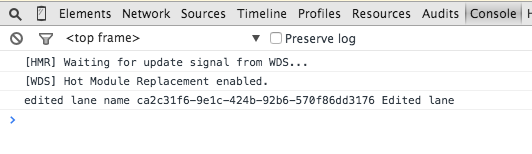
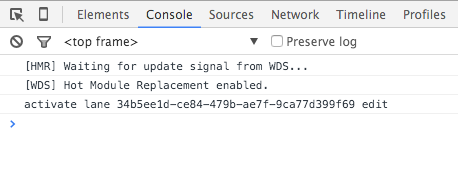
from notes to kanban - Quality pass
Closes #352.

diff --git a/manuscript/06_from_notes_to_kanban.md b/manuscript/06_from_notes_to_kanban.md
@@ -96,22 +96,22 @@ leanpub-end-delete
 leanpub-start-insert
         <button className="add-lane" onClick={this.addLane}>+</button>
 leanpub-end-insert
+leanpub-start-delete
         <AltContainer
-leanpub-start-delete
           stores={[NoteStore]}
-leanpub-end-delete
-leanpub-start-insert
-          stores={[LaneStore]}
-leanpub-end-insert
           inject={{
-leanpub-start-delete
             notes: () => NoteStore.getState().notes
-leanpub-end-delete
-leanpub-start-insert
-            lanes: () => LaneStore.getState().lanes || []
-leanpub-end-insert
           }}
         >
+leanpub-end-delete
+leanpub-start-insert
+        <AltContainer
+          stores={[LaneStore]}
+          inject={{
+            lanes: () => LaneStore.getState().lanes || []
+          }}
+        >
+leanpub-end-insert
 leanpub-start-delete
           <Notes onEdit={this.editNote} onDelete={this.deleteNote} />
 leanpub-end-delete
@@ -122,11 +122,6 @@ leanpub-end-insert
       </div>
     );
   }
-leanpub-start-insert
-  addLane() {
-    LaneActions.create({name: 'New lane'});
-  }
-leanpub-end-insert
 leanpub-start-delete
   addNote() {
     NoteActions.create({task: 'New task'});
@@ -138,6 +133,11 @@ leanpub-start-delete
     NoteActions.delete(id);
   }
 leanpub-end-delete
+leanpub-start-insert
+  addLane() {
+    LaneActions.create({name: 'New lane'});
+  }
+leanpub-end-insert
 }
 ```
 
@@ -210,7 +210,7 @@ export default class Lane extends React.Component {
 
 I am using [Object rest/spread syntax (stage 2)](https://github.com/sebmarkbage/ecmascript-rest-spread) (`const {a, b, ...props} = this.props`) in the example. This allows us to attach a `className` to `Lane` and we avoid polluting it with HTML attributes we don't need. The syntax expands Object key value pairs as props so we don't have to write each prop we want separately.
 
-If you run the application, you can see there's something wrong. If you add new `Notes` to a `Lane`, the `Note` appears to each `Lane`. Also if you modify a `Note`, the other `Lanes` update, too.
+If you run the application and try adding new notes, you can see there's something wrong. Every note you add is shared by all lanes. If a note is modified, other lanes update too.
 
 ![Duplicate notes](images/kanban_01.png)
 
@@ -245,7 +245,7 @@ import alt from '../libs/alt';
 export default alt.generateActions('create', 'attachToLane');
 ```
 
-The next step takes more code. There we need to find a lane matching to the given lane id and then attach note id to it. Given notes should be unique per lane, we can perform an extra check against that before attaching:
+In order to implement `attachToLane`, we need to find a lane matching to the given lane id and then attach note id to it. Furthermore, each note should belong only to one lane at a time. We can perform a rough check against that:
 
 **app/stores/LaneStore.js**
 
@@ -287,7 +287,11 @@ We also need to make sure `NoteActions.create` returns a note so the setup works
 ...
 
 class NoteStore {
-  ...
+  constructor() {
+    this.bindActions(NoteActions);
+
+    this.notes = [];
+  }
   create(note) {
     const notes = this.notes;
 
@@ -363,7 +367,7 @@ leanpub-end-insert
 export default alt.createStore(LaneStore, 'LaneStore');
 ```
 
-Just building an association between a lane and a note isn't enough. We are going to need some way to resolve the note references to data we can display through the user interface. For this purpose we need to implement a special getter that performs this particular step.
+Just building an association between a lane and a note isn't enough. We are going to need some way to resolve the note references to data we can display through the user interface. For this purpose, we need to implement a special getter so we get just the data we want per each lane.
 
 ### Implementing a Getter for `NoteStore`
 
@@ -495,7 +499,9 @@ There are three important changes:
 * `notes: () => NoteStore.getNotesByIds(notes)` - Our new getter is used to filter `notes`.
 * `addNote`, `deleteNote` - These operate now based on the new logic we specified. Note that we trigger `detachFromLane` before `delete` at `deleteNote`. Otherwise we may try to render non-existent notes. You can try swapping the order to see warnings.
 
-After these changes, we now have a system that can maintain relations between `Lanes` and `Notes`. The current structure allows us to keep singleton stores and a flat data structure. Dealing with references is a little awkward, but that's consistent with the Flux architecture.
+After these changes, we have a system that can maintain relations between `Lanes` and `Notes`. The current structure allows us to keep singleton stores and a flat data structure. Dealing with references is a little awkward, but that's consistent with the Flux architecture.
+
+If you try to add notes to a specific lane, they shouldn't be duplicated anymore. Also editing a note should behave as you might expect:
 
 ![Separate notes](images/kanban_02.png)
 
@@ -527,7 +533,7 @@ class LaneStore {
 }
 ```
 
-Fortunately, we can avoid `waitFor` in this case. You should use it carefully. It becomes necessary when you need to deal with asynchronously fetched data that depends on each other.
+Fortunately, we can avoid `waitFor` in this case. You should use it carefully. It becomes necessary when you need to deal with asynchronously fetched data that depends on each other, however.
 
 ## Implementing Edit/Remove for `Lane`
 
@@ -638,28 +644,8 @@ Next, we need to make *Notes.jsx* point at the new component. We'll need to alte
 
 ```javascript
 import React from 'react';
-leanpub-start-delete
-import Note from './Note.jsx';
-leanpub-end-delete
-leanpub-start-insert
 import Editable from './Editable.jsx';
-leanpub-end-insert
 
-leanpub-start-delete
-export default ({notes, onEdit, onDelete}) => {
-  return (
-    <ul className="notes">{notes.map(note =>
-      <li className="note" key={note.id}>
-        <Note
-          task={note.task}
-          onEdit={onEdit.bind(null, note.id)}
-          onDelete={onDelete.bind(null, note.id)} />
-      </li>
-    )}</ul>
-  );
-}
-leanpub-end-delete
-leanpub-start-insert
 export default ({notes, onValueClick, onEdit, onDelete}) => {
   return (
     <ul className="notes">{notes.map(note =>
@@ -674,7 +660,6 @@ export default ({notes, onValueClick, onEdit, onDelete}) => {
     )}</ul>
   );
 }
-leanpub-end-insert
 ```
 
 If you refresh the browser, you should see `Uncaught TypeError: Cannot read property 'bind' of undefined`. This has to do with that `onValueClick` definition we added. This is something we'll address next.
@@ -867,6 +852,19 @@ leanpub-start-delete
 
     console.log(`edit lane ${laneId} name using ${name}`);
   };
+  deleteLane = () => {
+    const laneId = this.props.lane.id;
+
+    console.log(`delete lane ${laneId}`);
+  };
+  activateLaneEdit = () => {
+    const laneId = this.props.lane.id;
+
+    console.log(`activate lane ${laneId} edit`);
+  };
+  activateNoteEdit(id) {
+    console.log(`activate note ${id} edit`);
+  }
 leanpub-end-delete
 leanpub-start-insert
   editName = (name) => {
@@ -874,41 +872,16 @@ leanpub-start-insert
 
     LaneActions.update({id: laneId, name, editing: false});
   };
-leanpub-end-insert
-leanpub-start-delete
-  deleteLane = () => {
-    const laneId = this.props.lane.id;
-
-    console.log(`delete lane ${laneId}`);
-  };
-leanpub-end-delete
-leanpub-start-insert
   deleteLane = () => {
     const laneId = this.props.lane.id;
 
     LaneActions.delete(laneId);
   };
-leanpub-end-insert
-leanpub-start-delete
-  activateLaneEdit = () => {
-    const laneId = this.props.lane.id;
-
-    console.log(`activate lane ${laneId} edit`);
-  };
-leanpub-end-delete
-leanpub-start-insert
   activateLaneEdit = () => {
     const laneId = this.props.lane.id;
 
     LaneActions.update({id: laneId, editing: true});
   };
-leanpub-end-insert
-leanpub-start-delete
-  activateNoteEdit(id) {
-    console.log(`activate note ${id} edit`);
-  }
-leanpub-end-delete
-leanpub-start-insert
   activateNoteEdit(id) {
     NoteActions.update({id, editing: true});
   }
